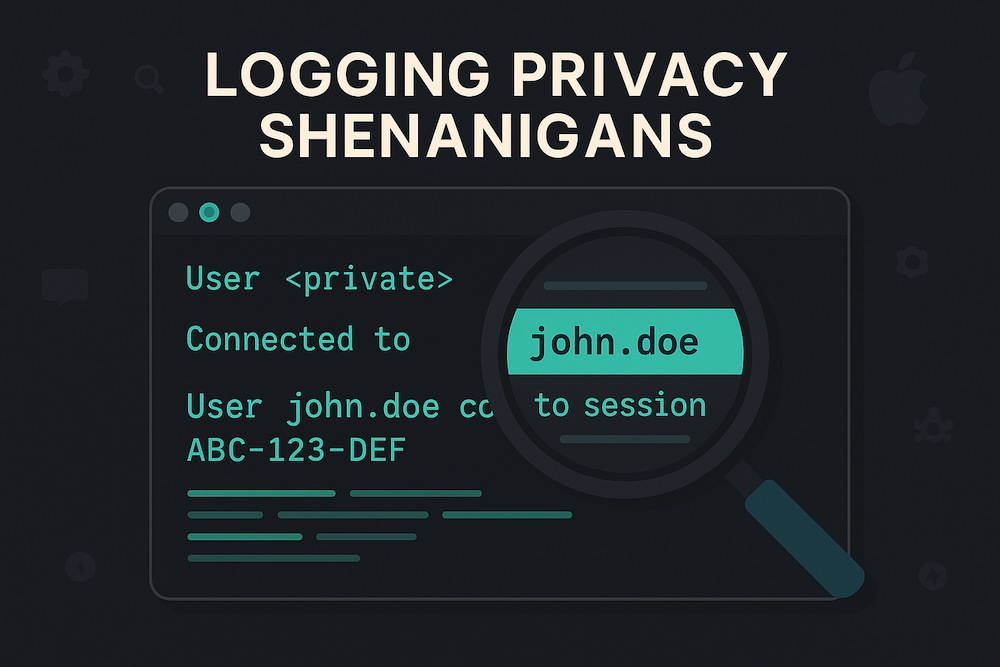
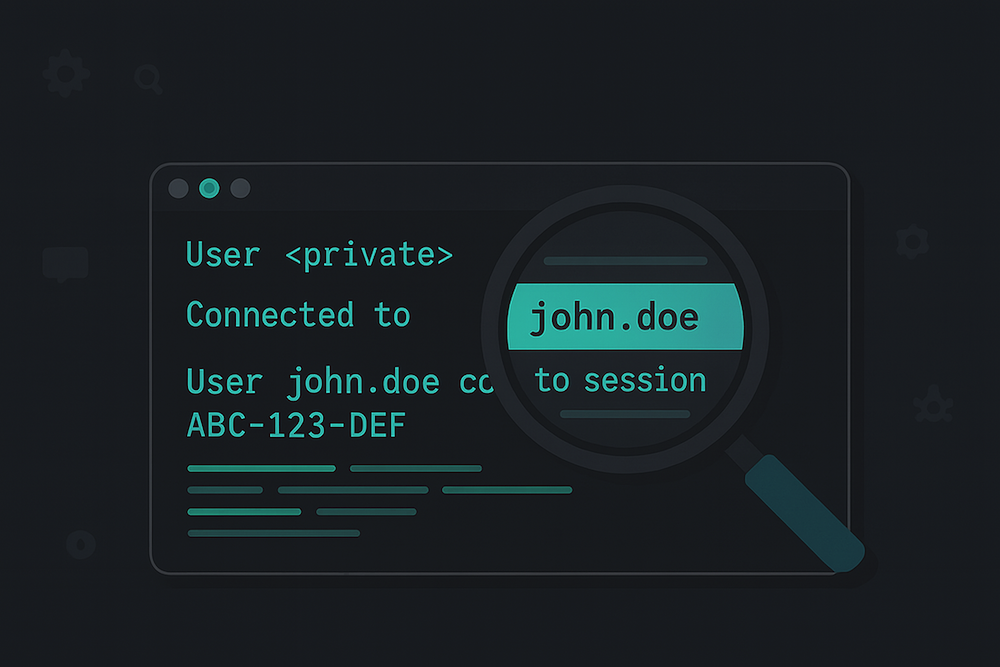
Replace header image and improve redaction explanation
- Replaced header image with new version
- Updated explanation based on research about Apple's implementation
- Now correctly explains compile-time vs runtime distinction
- More technically accurate about why static strings aren't redacted

🤖 Generated with [Claude Code](https://claude.ai/code)

diff --git a/src/content/blog/2025/logging-privacy-shenanigans.md b/src/content/blog/2025/logging-privacy-shenanigans.md
@@ -47,7 +47,7 @@ Here's where it gets interesting. Through testing, I discovered that Apple's red
 | UUIDs (`ABC-123-DEF`) | Redacted | ✓ Redacted |
 | Integers, booleans, floats | Public | ✓ Public |
 
-The discrepancy likely comes from hardcoded strings versus dynamically generated values. Apple's privacy system appears to use pattern matching to decide what to redact.
+The discrepancy comes from how Apple's logging system is implemented. The os_log function requires format strings to be compile-time constants (C string literals) for performance optimization. When you use string interpolation with dynamic values, the compiler and logging library work together to mark these as runtime data that needs privacy protection. Static strings embedded directly in your code are treated as part of the format string and assumed to be non-sensitive, while any runtime values (variables, computed properties, function returns) are automatically redacted to prevent accidental leakage of personal information.
 
 ## Old Solutions That No Longer Work
 
